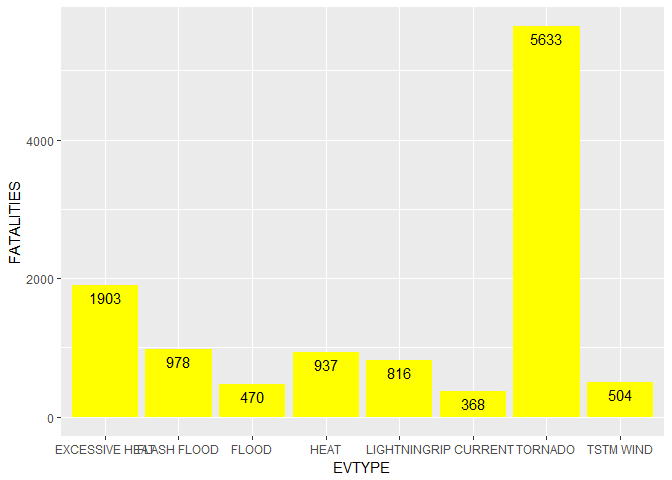
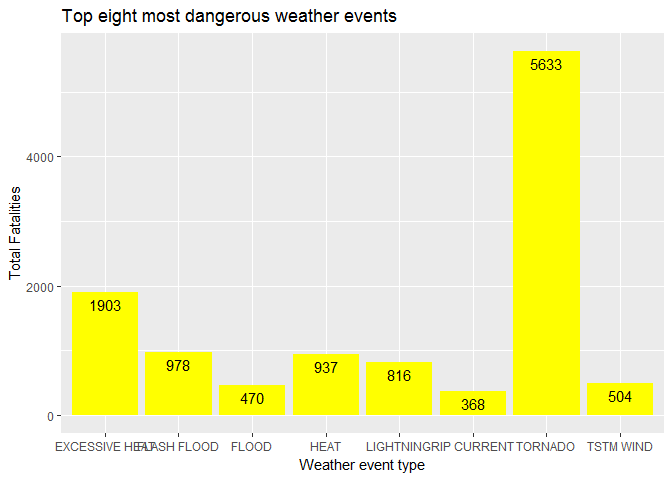
looking good

diff --git a/RepDataStormStudy.html b/RepDataStormStudy.html
@@ -197,12 +197,31 @@ d5&lt;-summarise(d4,FATALITIES=sum(FATALITIES))
 d6&lt;-arrange(d5,desc(FATALITIES))
 d7&lt;-head(d6,8)
 g&lt;-ggplot(d7,aes(EVTYPE,FATALITIES))
-plotfatal&lt;-g+geom_col(fill=&quot;yellow&quot;)+ geom_text(aes(label=FATALITIES), vjust=1.5, color=&quot;black&quot;)
+plotfatal&lt;-g+geom_col(fill=&quot;yellow&quot;)+ geom_text(aes(label=FATALITIES), vjust=1.5, color=&quot;black&quot;)+labs(x=&quot;Weather event type&quot; ,y=&quot;Total Fatalities&quot;,title=&quot;Top eight most dangerous weather events&quot;)
 plotfatal</code></pre>
[1 lines of base64/hex data omitted]
-<div id="printplotfatalfig.width8fig.height4" class="section level6">
-<h6>print(plotfatal,fig.width=8,fig.height=4)</h6>
-</div>
[1 lines of base64/hex data omitted]
+<pre class="r"><code>d2&lt;-group_by(d1,EVTYPE)
+dd3&lt;-select(d2,EVTYPE,PROPDMG:CROPDMGEXP)
+dd4&lt;-filter(dd3,PROPDMG,!is.na(PROPDMG))
+dd5&lt;-summarise(dd4,PROPDMG=sum(PROPDMG)/100000)
+dd6&lt;-arrange(dd5,desc(PROPDMG))
+dd7&lt;-head(dd6,8)
+dd7</code></pre>
+<pre><code>## # A tibble: 8 × 2
+##               EVTYPE   PROPDMG
+##                &lt;chr&gt;     &lt;dbl&gt;
+## 1            TORNADO 32.122582
+## 2        FLASH FLOOD 14.201246
+## 3          TSTM WIND 13.359656
+## 4              FLOOD  8.999385
+## 5  THUNDERSTORM WIND  8.768442
+## 6               HAIL  6.886934
+## 7          LIGHTNING  6.033518
+## 8 THUNDERSTORM WINDS  4.462932</code></pre>
+<pre class="r"><code>g1&lt;-ggplot(dd7,aes(EVTYPE,PROPDMG))
+plotdamage&lt;-g1+geom_col(fill=&quot;orange&quot;)+ geom_text(aes(label=PROPDMG), vjust=1.5)+labs(x=&quot;Weather event type&quot;,y=&quot;Total Property damage in billions&quot;,title=&quot;Top eight most expensive weather events&quot;)
+plotdamage</code></pre>
[1 lines of base64/hex data omitted]
 </div>
 </div>
 

diff --git a/RepDataStormStudy.md b/RepDataStormStudy.md
@@ -96,13 +96,44 @@ d5<-summarise(d4,FATALITIES=sum(FATALITIES))
 d6<-arrange(d5,desc(FATALITIES))
 d7<-head(d6,8)
 g<-ggplot(d7,aes(EVTYPE,FATALITIES))
-plotfatal<-g+geom_col(fill="yellow")+ geom_text(aes(label=FATALITIES), vjust=1.5, color="black")
+plotfatal<-g+geom_col(fill="yellow")+ geom_text(aes(label=FATALITIES), vjust=1.5, color="black")+labs(x="Weather event type" ,y="Total Fatalities",title="Top eight most dangerous weather events")
 plotfatal
 ```
 
 ![](RepDataStormStudy_files/figure-html/fatality-1.png)<!-- -->
+#### Notes
 
-######print(plotfatal,fig.width=8,fig.height=4)
+```r
+d2<-group_by(d1,EVTYPE)
+dd3<-select(d2,EVTYPE,PROPDMG:CROPDMGEXP)
+dd4<-filter(dd3,PROPDMG,!is.na(PROPDMG))
+dd5<-summarise(dd4,PROPDMG=sum(PROPDMG)/100000)
+dd6<-arrange(dd5,desc(PROPDMG))
+dd7<-head(dd6,8)
+dd7
+```
+
+```
+## # A tibble: 8 × 2
+##               EVTYPE   PROPDMG
+##                <chr>     <dbl>
+## 1            TORNADO 32.122582
+## 2        FLASH FLOOD 14.201246
+## 3          TSTM WIND 13.359656
+## 4              FLOOD  8.999385
+## 5  THUNDERSTORM WIND  8.768442
+## 6               HAIL  6.886934
+## 7          LIGHTNING  6.033518
+## 8 THUNDERSTORM WINDS  4.462932
+```
+
+```r
+g1<-ggplot(dd7,aes(EVTYPE,PROPDMG))
+plotdamage<-g1+geom_col(fill="orange")+ geom_text(aes(label=PROPDMG), vjust=1.5)+labs(x="Weather event type",y="Total Property damage in billions",title="Top eight most expensive weather events")
+plotdamage
+```
+
+![](RepDataStormStudy_files/figure-html/property damage-1.png)<!-- -->
 
 
 
